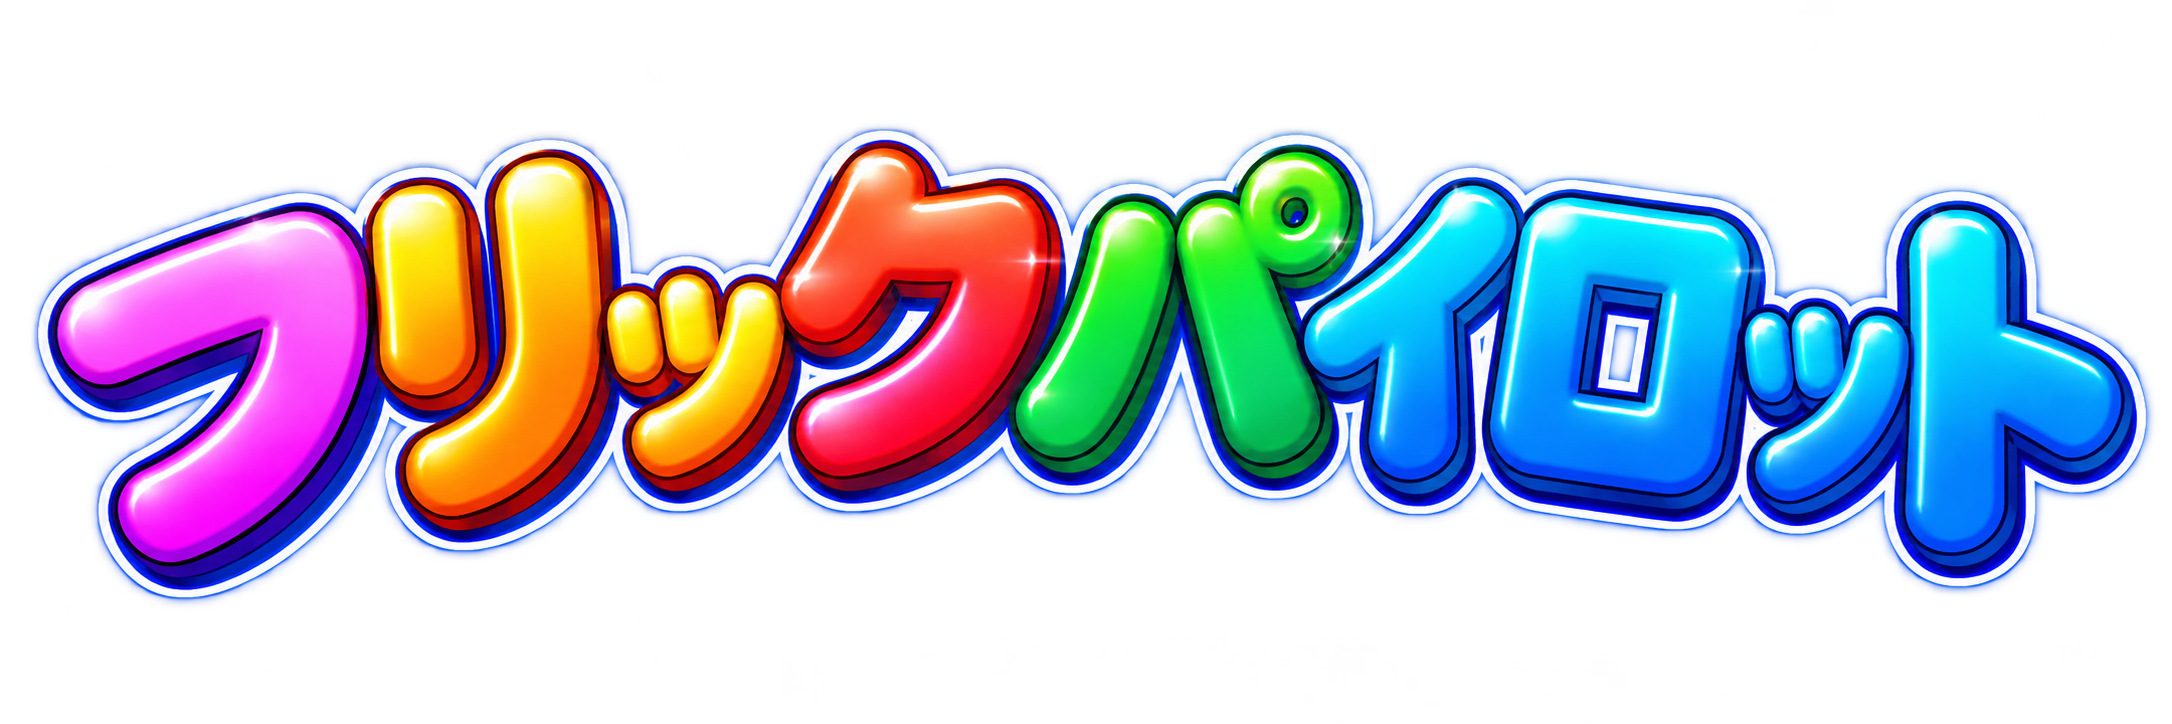
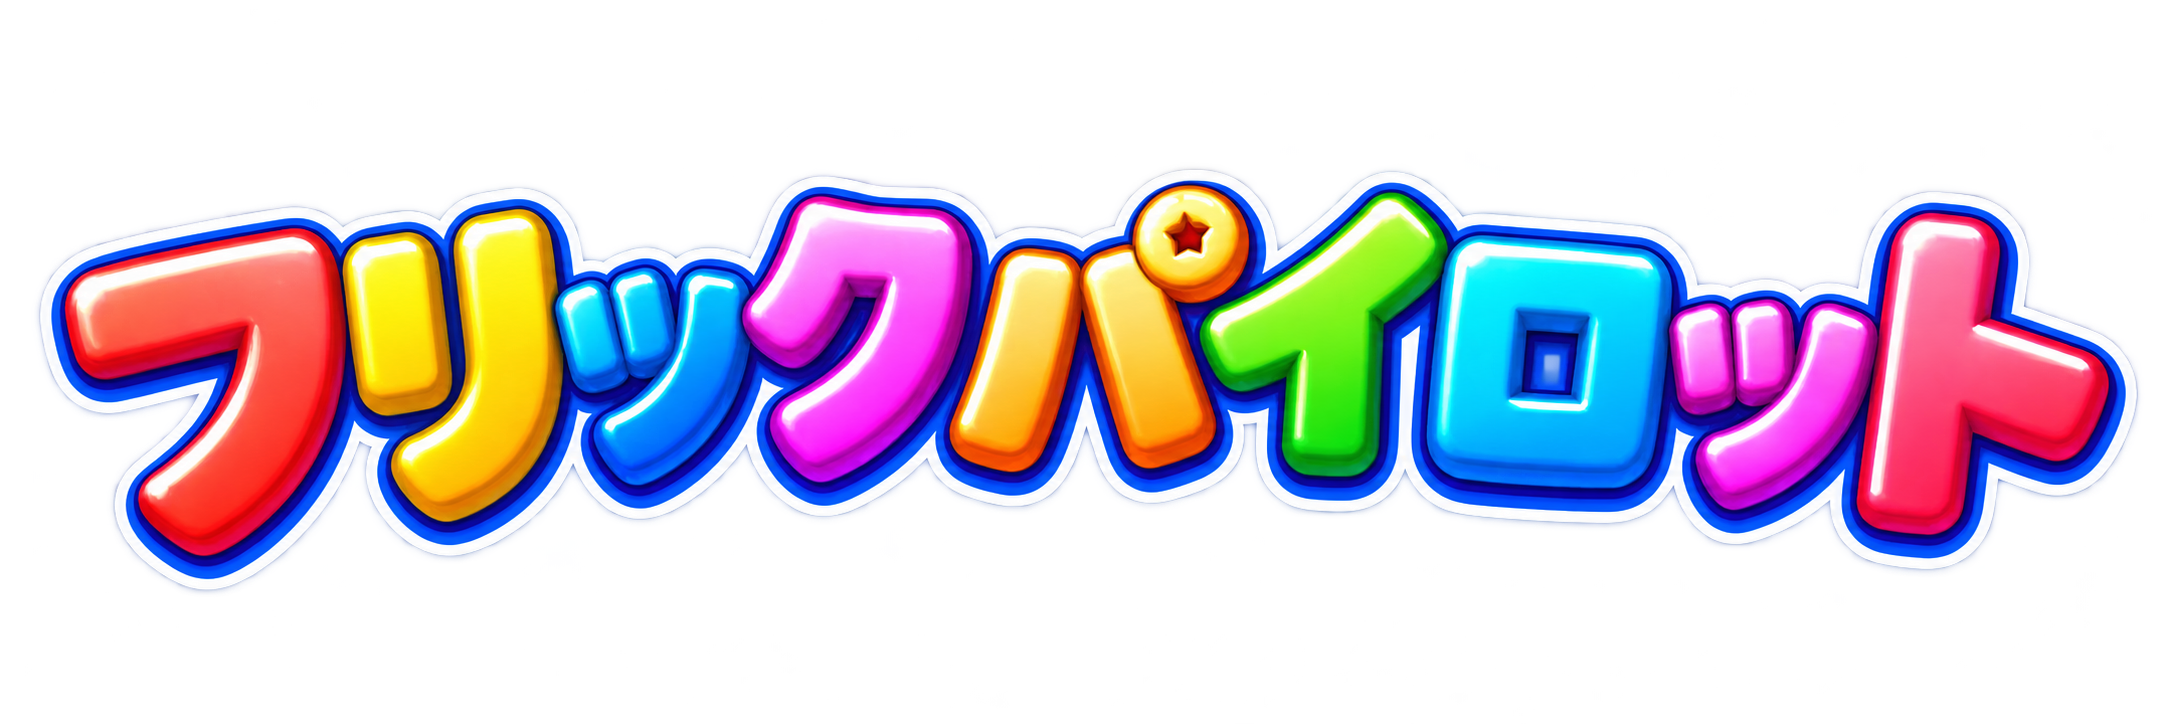
フリックパイロット: 題名を 四角い 絵と 同じ 色の 絵に
Claude-Session: https://claude.ai/code/session_01QMFMbfhEzDsJEEWcfH87ZA

diff --git a/pilot/index.html b/pilot/index.html
@@ -437,11 +437,11 @@ ruby.nm rt{font-size:10px;font-weight:500;color:var(--muted);letter-spacing:.02e
          読みあげソフトには かくして、下の <h1> が 名前を言う -->
     <div class="logo">
       <img class="logo-mark" src="logo-mark2.webp?v=4" alt="" width="144" height="144" aria-hidden="true">
-      <img class="logo-word" src="logo-word.webp?v=4" alt="" width="900" height="205" aria-hidden="true">
+      <img class="logo-word" src="logo-word.webp?v=5" alt="" width="900" height="184" aria-hidden="true">
       <button class="prof-btn" id="prof-btn" aria-label="マイページ"><span class="nm"></span><span class="tile sm sk-card" id="prof-tile">?</span></button>
     </div>
     <h1 class="sr-only">フリックパイロット</h1>
-    <img class="hero" src="hero.webp?v=4" alt="フリックパイロット" width="1536" height="1024">
+    <img class="hero" src="hero.webp?v=5" alt="フリックパイロット" width="1536" height="1024">
     <p class="lead" id="lead">世界と日本の名所・地名・首都を、ひらがなでどれだけ速く打てるか。10問のトータルタイムで勝負しながら、旅に出よう。</p>
     <div class="modes" id="modes"></div>
     <div id="kabu-panel"></div><!-- 株式フリック旅行だけ: 集めた会社・称号(kabu/kabu.js) -->

diff --git a/tools/build_games.py b/tools/build_games.py
@@ -79,7 +79,7 @@ GAMES = {
     #   まとめは docs/フリックパイロット-はじめかた.md。ことばは tools/pilot/terms-<旅>.json → pilot/terms.js(tools/pilot/terms_js.py)。しくみは pilot/pilot.js(PILOT。整備士を 写した。🎧 こうしんで・🧩 4択クイズ・🧮 計算問題)。
     #   ⚠⚠ 事故・墜落・こわい 字・会社名は 出さない(決まりは tools/pilot/PROMPT.md)。アイコン・トップの 絵・題名は 入れた
     "pilot": dict(name="フリックパイロット", modes="PILOT", kinds=set(), color="#1c7ed6", hero=True, logo=True,
-                  art=dict(word=(900, 205), hero=(1536, 1024), alt="フリックパイロット", iconv=4, wordv=4),
+                  art=dict(word=(900, 184), hero=(1536, 1024), alt="フリックパイロット", iconv=4, wordv=5),
                   lead="飛行機の きほん・飛ぶ しくみ・計器と エンジン・空の 天気・空の 道と 地図・無線と 英語・空の きまり・空港と 管制・パイロットの しごとと 歴史の ことばを、ひらがなで フリック入力。打つと その ことばの 意味が 出て、無線の ことばは「🎧 こうしんで」で 使いかたが わかるよ。飛行機が すきな 子の ことばから はじめて、自家用操縦士・事業用操縦士の 学科試験(航空工学・航空気象・空中航法・航空通信・航空法規)の めやすまで。4択クイズと 計算問題で 学科試験の 練習も できるよ。",
                   how="表示された ひらがなを、そのまま打ち写してね。1回は かならず 10問。どのステージも いつも同じ10問なので、タイムをくらべられるよ。これは ことばを おぼえる ゲームだよ。これで 飛べる わけでは ありません。実際に 飛ぶには 訓練校で 教官と 練習し、国家試験に 受かる 必要が あります。試験の 勉強には 過去問と 教科書も 使ってね。",
                   rule="ルール：予測変換は使わずに、自分の指で打ち切ろう。あそぶほど、空の 上の しごとが 見えてくるよ。国土交通省 航空局・航空大学校・航空会社とは 関係ありません。"),

diff --git a/CLAUDE.md b/CLAUDE.md
@@ -1405,7 +1405,7 @@
   ⚠ 機首・燃料タンク・除氷・747 は よい 写真が 無かった(航空会社・軍用機)ので 絵文字の まま。足すときも かならず 目で 見る
 - **アイコンは 入れた**(2026-10-20。けいくんの 四角い 絵 1254px を 切らずに そのまま `tools/pilot/art/square-src.png` → `python3 tools/icon_from_square.py pilot`)。同じ日に 2枚目の 四角い 絵(札が トップの 絵と 同じ ゲームの ことば)に、さらに 3枚目(トップの 絵と 同じ 女の子と 犬つき・札は 同じ)に 差しかえた(`iconv` = 4)。4択(人工地平儀)・計算(450km/h × 2.5h = 1,125km)も 正しい。仮の アイコンの 台本 `placeholder_icon.py` は もう 使わない
 - **トップの 絵は 入れた**(2026-10-20。`pilot/hero.webp` 1536×1024・`hero=True`・`wordv` = 2)。けいくんの ChatGPT の 絵の **2回目**。1回目は 札 32こ中 21こが ゲームに 無い ことば(なまえ・しゅるい・りょく・すうち・かぜ・えいご・あんぜん・ルール …)で 入れず、旅ごとに ゲームに ある 読みを 4つずつ 指定して 作りなおして もらった。2回目は 32こ ぜんぶ ゲームに ある 読み(゛゜も 切り出して 確かめた)。4択・計算・題名も 正しい。同じ 日に **3回目**(9番の 旅「パイロットのしごとと歴史」の 箱つき・`wordv` = 4)に 差しかえた。札 36こ中 32こは ゲームの 読みで 正しかった。のこりを **絵の 中で 直した**(`tools/pilot/fix_text.py`): 9番の 札(こっくぴっと・ふくそう・れきし = ゲームに 無い / こうくうにっし = 空のきまりの 旅)→ ぱいろっと・きちょう・らいときょうだい・こんこるど / 7番の 本の 表紙の 読めない 字 → 航空法。もとの 絵は 入れものに 入れていない
-- **題名も 入れた**(2026-10-20。けいくんの ChatGPT の 切りぬき `tools/pilot/art/title-src.png` 2172×724 → `python3 tools/title_from_art.py pilot` → `pilot/logo-word.webp` 900×205。`logo=True`・`wordv` = 3)。「フリックパイロット」9字を 読んで 確かめた
+- **題名も 入れた**(2026-10-20。けいくんの ChatGPT の 切りぬき `tools/pilot/art/title-src.png` 2172×724 → `python3 tools/title_from_art.py pilot` → `pilot/logo-word.webp` 900×205。`logo=True`・`wordv` = 3)。「フリックパイロット」9字を 読んで 確かめた。同じ日に 四角い 絵と 同じ 色の 題名に 差しかえた(900×184・`wordv` = 5)
 - 販売ページ `HOME_GAMES`(夢のしごと の 章、整備士の となり)と 規約の 一覧 `FLICK_SERIES_GAMES` にも 2026-10-20 に 足した(speed-king)
   ⚠ 絵を 頼む ときは 実在の 会社の 塗り分け・ロゴ・こわれた 機体・あらしを 描かせない。人物は 画面の 下 3分の1に 小さく。届いたら まず 字を 切り出して 読む。販売ページ `HOME_GAMES`(章「夢のしごと」の 整備士の となり)と 規約の 一覧 `FLICK_SERIES_GAMES` は 絵が 届いてから
 - 確かめかた: `node tools/play-all.mjs pilot/`(全126ステージ。旅 9×7 + マスター 63)/ `node tools/click-all.mjs pilot/`(W=320 も)。計算問題は scratchpad で `CALC` を 3000回ずつ 回して 選択肢が 4つ・NaN なし・番号 01〜36
